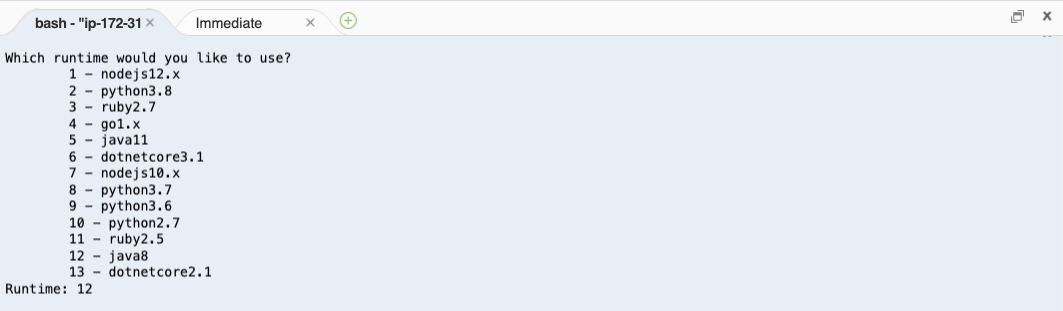
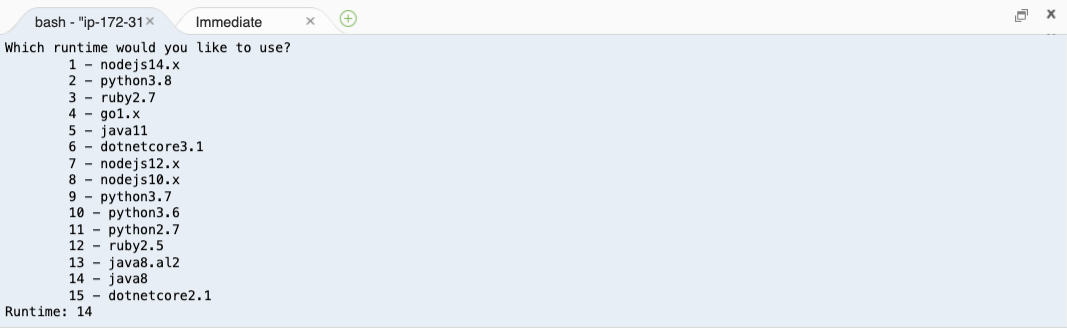
Issue 63: Fixed Java 8 runtime selection

Changed region(s): [[0.0, 0.0, 1.0, 1.0]]

diff --git a/workshop/content/java/sam/init/_index.en.md b/workshop/content/java/sam/init/_index.en.md
@@ -19,7 +19,7 @@ It will prompt for project configuration parameters:
 #### Type `1` to select Zip as the package type
 ![samInit](/images/java/chapter1/init/package-type.png)
 
-#### Type `12` to select the Java 8 runtime
+#### Type `14` to select the Java 8 runtime
 ![samInit](/images/java/chapter1/init/runtime.png)
 
 #### Type `1` to select maven 
